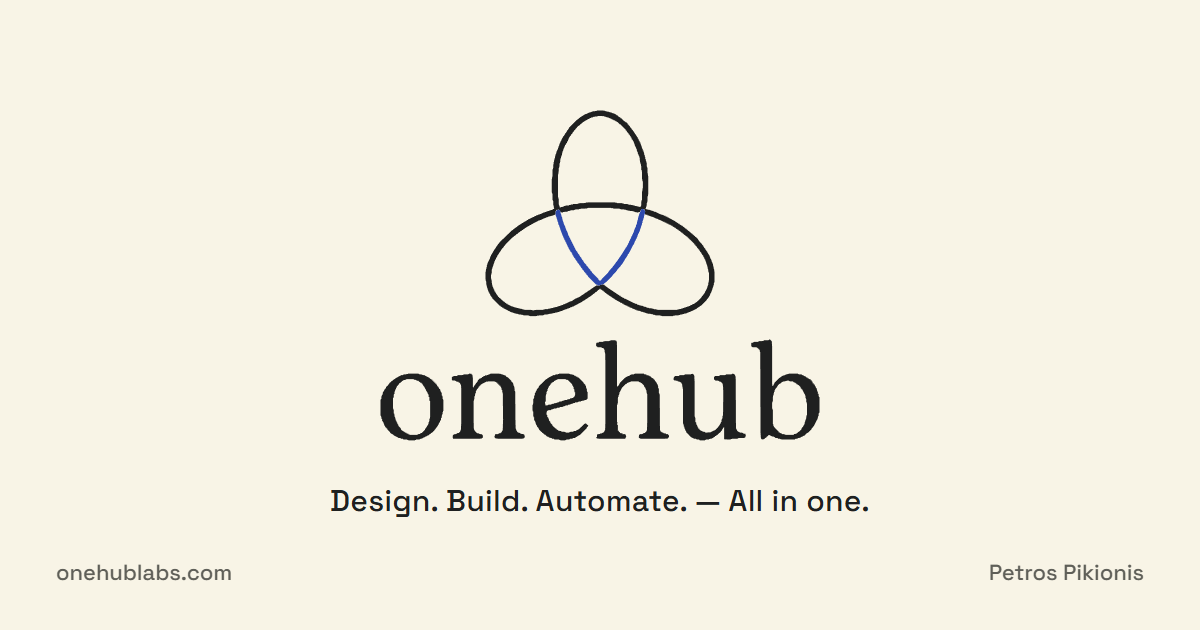
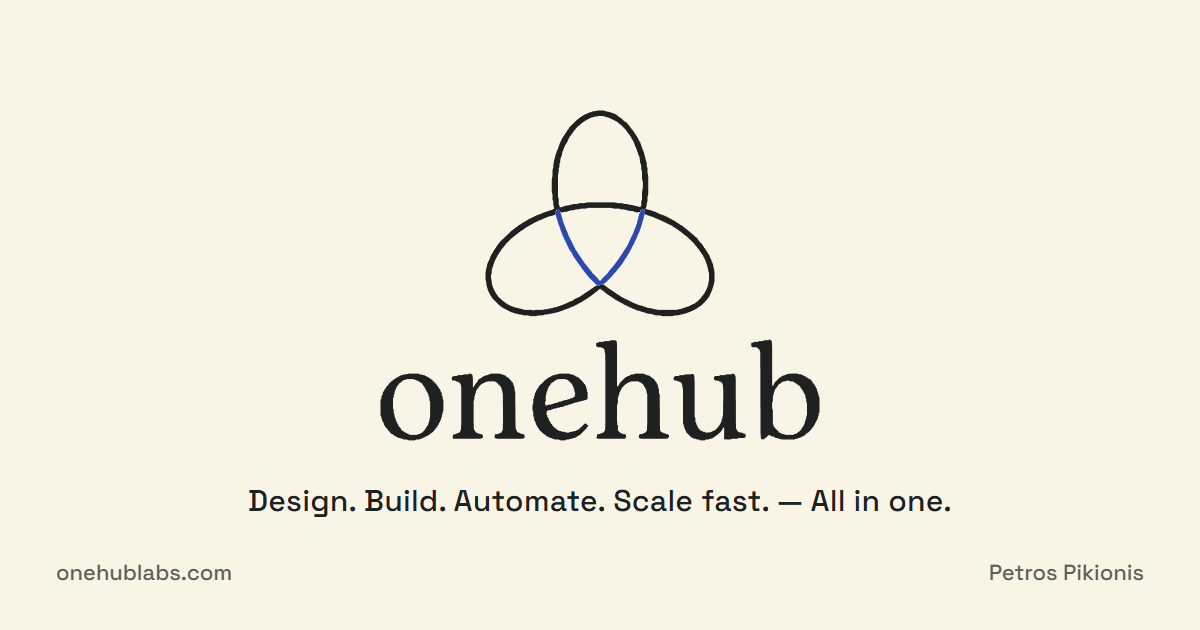
Intro line: Design. Build. Automate. Scale fast. — All in one.
The share card and its alt text follow; on a phone the line breaks into two
balanced lines.

Changed region(s): [[0.185, 0.754, 0.8017, 0.8143]]

diff --git a/src/data/site.ts b/src/data/site.ts
@@ -22,7 +22,7 @@ export const meta = {
     'Custom websites, web applications, e-commerce, AI search, marketing and ads — designed, built and run end to end by Petros Pikionis.',
   /** the picture a shared link shows: 1200 × 630, in public/ */
   image: '/og.png',
-  imageAlt: 'The onehub logo: three loops that meet in one point. Design. Build. Automate.',
+  imageAlt: 'The onehub logo: three loops that meet in one point. Design. Build. Automate. Scale fast.',
 };
 
 // The onehub logo: the header lockup (src/components/Logo.astro) and the opening intro (LogoIntro.astro)
@@ -35,7 +35,7 @@ export const brand = {
 // The opening intro: one word per loop (top, left, right), the line under the logo, the skip button
 export const intro = {
   words: ['Design', 'Build', 'Automate'] as [string, string, string],
-  line: 'Design. Build. Automate. — All in one.',
+  line: 'Design. Build. Automate. Scale fast. — All in one.',
   skip: 'Skip intro',
 };
 
